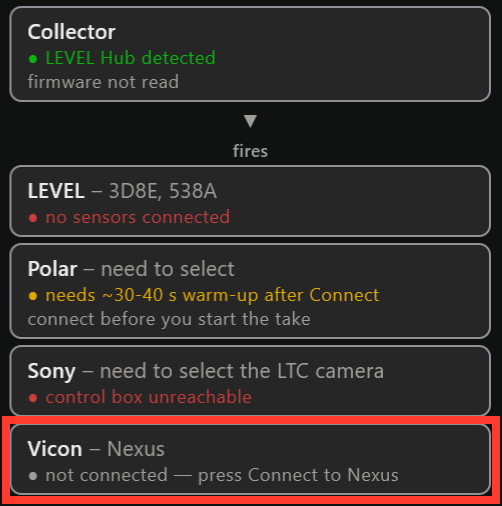
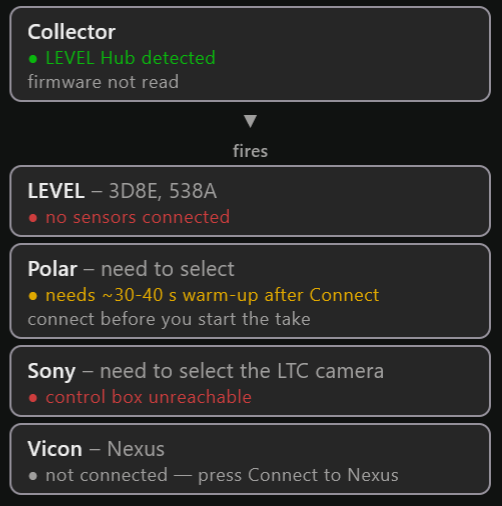
Quick Start without Postproc, sidebar shot without the red box; Sony batch defaults 30 s / 4 / 10 (~45 min); Settings retake #10 dropped
Claude-Session: https://claude.ai/code/session_015KJCcdhEfppe6DCue5hXZZ

Changed region(s): [[0.0, 0.8004, 1.0, 1.0]]

diff --git a/docs/windows-sony-theia.md b/docs/windows-sony-theia.md
@@ -172,13 +172,13 @@ that changes the player asks for a new calibration.
    reading an older clip. You can also type a measured value into **K_av (ms)**
    and press **Set**.
 
-To see how steady the value is on this PC, run a **batch** (the row under
-Calibrate): **Run length (s)** (60 by default), **Runs per player** (4) and
-**Sets** (100). Each set restarts the LTC signal, a fresh start of the output,
+Then run a **batch** (the row under Calibrate) to see how steady the value is
+on this PC: **Run length (s)** (30 by default), **Runs per player** (4) and
+**Sets** (10). Each set restarts the LTC signal, a fresh start of the output,
 then records that many runs on it. The line beside **Run batch** shows how many
-runs that is and about how long; the defaults take most of a night, so lower
-**Sets** for a quick check. **Stop** ends the batch after the current run. The
-median of the runs that read the clock page is saved.
+runs that is and about how long; the defaults take about 45 minutes, so start it
+and let it run. **Stop** ends the batch after the current run. The median of
+the runs that read the clock page is saved.
 
 Every Calibrate, every batch run, every value you **Set** by hand and every
 Check LTC that decoded is added to a log, `calibration\kav_log.csv` in the

diff --git a/docs/windows-settings.md b/docs/windows-settings.md
@@ -11,8 +11,7 @@ The **Settings** tab is a stack of panels, each with a title you can click to
 fold it away: **Collector Settings**, **Sync**, then one
 panel for each other system that is on.
 
-![Settings tab: Collector Settings with the root folder, On launch switches and the Python interpreter](assets/windows-settings/collector-settings.png)
-<p style="color:#FF3B30;font-size:1.3em"><strong>RETAKE SCREENSHOT #10 (on 0.1.42+): top bar without Connect All / Scan + connect last; On launch has only the Scan All switch</strong></p>
+![Settings tab: Collector Settings with the root folder, the On launch switch and the Python interpreter](assets/windows-settings/collector-settings.png)
 
 ## Collector Settings
 

diff --git a/docs/windows-setting-up.md b/docs/windows-setting-up.md
@@ -61,12 +61,6 @@ If a system fails mid-take, its sidebar card turns red and the others keep
 going. Stop when you are ready. If the cameras are still recording when no take
 is running, the main button still reads **Stop Stream** and stops them.
 
-## 4. Postproc
-
-With Sony, press **Pull all clips…** on the Sony panel first. Then, on the
-**Postproc** tab, tick the takes and press **Run on ticked** to put every
-system on the PC clock. See [Post-processing a Recording](windows-postprocessing).
-
 ## Where the files go
 
 Each take is a folder in the root folder's `collector\data` folder (by default
